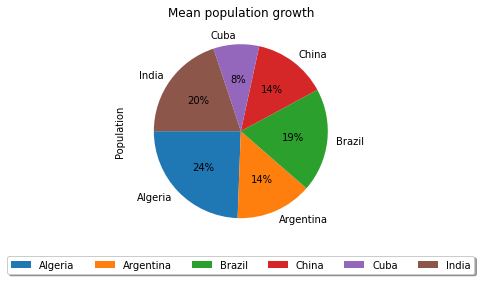
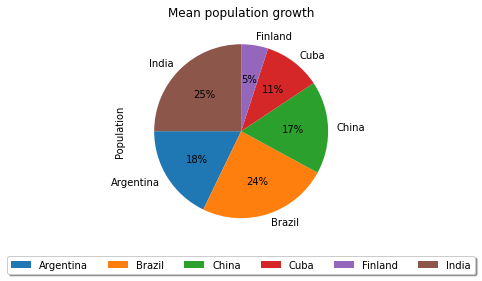
Code changes

diff --git a/Population.py b/Population.py
@@ -10,7 +10,7 @@ import matplotlib.pyplot as plt
 import numpy as np
 
 #A function to plot the bar graph  
-def barGraph(df,columns, xlabel, ylabel, title):
+def barGraph(df, columns, xlabel, ylabel, title):
     """
     The function bargraph() is used to plot a bar graph representing the percentage of people
     living in the urban area in each selected country,and the effect of urbanisation in the agricultural 
@@ -23,31 +23,33 @@ def barGraph(df,columns, xlabel, ylabel, title):
     fig, ax = plt.subplots()
     i=0
     for y in columns:
-        ax.bar(x+(i*w),df[y],width=w,label=y,edgecolor='k', align='center')
+        ax.bar(x+(i*w), df[y], width=w, label=y, edgecolor='k', align='center')
         i=i+1   
     ax.set_ylabel(ylabel)
     ax.set_xlabel(xlabel)
     ax.set_title(title)
     ax.set_xticks(x, labels)
-    ax.legend(loc='upper center', bbox_to_anchor=(0.5, -0.2),fancybox=True, shadow=True, ncol=6)    
+    ax.legend(loc='upper center', bbox_to_anchor=(0.5, -0.2), 
+              fancybox=True, shadow=True, ncol=6)    
     fig.tight_layout()  
     plt.show()
 
 
 #A function to plot the line graph
-def linegraph(df,columns, xlabel, ylabel, title): 
+def linegraph(df, columns, xlabel, ylabel, title): 
     """
     The linegraph function is used to plot line grpah.
     The plot represents the total percentage of Co2 emissions from solid fuel consumption
     percentage and the Arable land Percentage in each selected contries   
     """
-    x=df['Years']
-    i=0
+    x = df['Years']
+    i = 0
     plt.figure()
     for y in columns:
-        plt.plot(x,df[y],linestyle='dashed',label=y)
+        plt.plot(x, df[y], linestyle = 'dashed', label = y)
         i=i+1   
-    plt.legend(loc='upper center', bbox_to_anchor=(0.5, -0.2),fancybox=True, shadow=True, ncol=6)
+    plt.legend(loc = 'upper center', bbox_to_anchor = (0.5, -0.2),
+               fancybox=True, shadow=True, ncol=6)
     plt.title(title)
     plt.xlabel(xlabel)
     plt.ylabel(ylabel)
@@ -63,13 +65,15 @@ def piegraph(df):
     """ 
     plt.figure()
     df.groupby(['Country Name']).sum().plot(
-    kind='pie', y='Population', autopct='%1.0f%%',startangle=180)
-    plt.legend(loc='upper center', bbox_to_anchor=(0.5, -0.05),fancybox=True, shadow=True, ncol=6)
+    kind='pie', y = 'Population', autopct = '%1.0f%%', startangle = 180)
+    plt.legend(loc = 'upper center', bbox_to_anchor = (0.5, -0.05),
+               fancybox=True, shadow=True, ncol=6)
     plt.title('Mean population growth')
     plt.show()
 
+
 #A function to create a dataframe with average of population growth in each country
-def FindAverage(df):
+def FindMean(df):
     
     """
     The FindAverage function is used to find the mean of population growth
@@ -78,9 +82,10 @@ def FindAverage(df):
     Countries = df["Country Name"]
     for c in Countries:
         df['Population']=df.mean(axis=1)
-    df=df.loc[:, ['Country Name','Population']].reset_index(drop=True)
+    df=df.loc[:, ['Country Name', 'Population']].reset_index(drop=True)
     print(df)
     piegraph(df)
+
 
 #reading the data set 
 def ReadandReturnData(filename,indicatorName):
@@ -93,7 +98,7 @@ def ReadandReturnData(filename,indicatorName):
     Data = pd.read_csv(filename,sep='\t',skiprows=4,engine='python')
     df_Data = pd.DataFrame(Data)
     df1= df_Data.loc[df_Data['Indicator Name'].isin([indicatorName])]
-    df1 = df1.loc[df1['Country Code'].isin(['CUB','BRA','IND','ARG','DZA','CHN'])]
+    df1 = df1.loc[df1['Country Code'].isin(['CUB','BRA', 'FIN','ARG','IND','CHN'])]
     df1 = df1.loc[:, ['Country Name','1965', '1975', '1985', '1995', '2005', '2015']].reset_index(drop=True).fillna(0.0)
     df2=df1.set_index('Country Name').transpose()
     df2['Years'] = df2.index
@@ -105,26 +110,38 @@ def ReadandReturnData(filename,indicatorName):
     return df1,df2    
 
 
-#reading data set
+#reading data set name
 filename = "Dataset.csv"
-years=['1965','1975','1985','1995','2005','2015']
-Countries=['Cuba','Argentina','Brazil','China','Algeria','India']
+years=['1965', '1975', '1985', '1995', '2005', '2015']
+Countries=['Cuba', 'Argentina', 'Brazil', 'Finland', 'China', 'India']
+
 
 #Calling function to create dataframe according to the indicators
-df_urbanPopulation,df_urbanPopTrans=ReadandReturnData(filename,"Urban population (% of total population)")
-df_AgriculturalLand,df_AgriculturalLandTrans=ReadandReturnData(filename,"Agricultural land (% of land area)")
-df_CO2Emissions,df_CO2EmissionsTrans=ReadandReturnData(filename,"CO2 emissions from solid fuel consumption (% of total)")
-df_ArableLand,df_ArableLandTrans=ReadandReturnData(filename,"Arable land (% of land area)")
-df_Population,df_PopulationTrans=ReadandReturnData(filename,"Population growth (annual %)")
+df_urbanPopulation,df_urbanPopTrans = ReadandReturnData(filename,
+                                    "Urban population (% of total population)")
+df_AgriculturalLand,df_AgriculturalLandTrans = ReadandReturnData(filename,
+                                    "Agricultural land (% of land area)")
+df_CO2Emissions,df_CO2EmissionsTrans = ReadandReturnData(filename,
+                                    "CO2 emissions from solid fuel consumption (% of total)")
+df_ArableLand,df_ArableLandTrans = ReadandReturnData(filename,
+                                  "Arable land (% of land area)")
+df_Population,df_PopulationTrans = ReadandReturnData(filename,
+                                 "Population growth (annual %)")
+
 
 #Calling functions to plot the grpahs
-barGraph(df_urbanPopulation,years,'Country','Population Percentage','Urban population (% of total population)')
-barGraph(df_AgriculturalLand,years,'Country','Agricultural land Area Percentage','Agricultural land (% of land area)')
-linegraph(df_CO2EmissionsTrans,Countries,'Year','CO2 Emission Percentage','CO2 emissions from solid fuel consumption (% of total)')
-linegraph(df_ArableLandTrans,Countries,'Year','Arable land Percentage','Arable land (% of land area)')
+barGraph(df_urbanPopulation, years, 'Country', 'Urban Population Percentage',
+         'Urban population (% of total population)')
+barGraph(df_AgriculturalLand, years, 'Country', 'Agricultural land Area Percentage',
+         'Agricultural land (% of land area)')
+linegraph(df_CO2EmissionsTrans, Countries, 'Year', 'CO2 Emission Percentage',
+          'CO2 emissions from solid fuel consumption (% of total)')
+linegraph(df_ArableLandTrans,Countries, 'Year', 'Arable land Percentage',
+          'Arable land (% of land area)')
+
 
 #Calling function find the mean of population growth
-FindAverage(df_Population)
+FindMean(df_Population)
 
 
 
